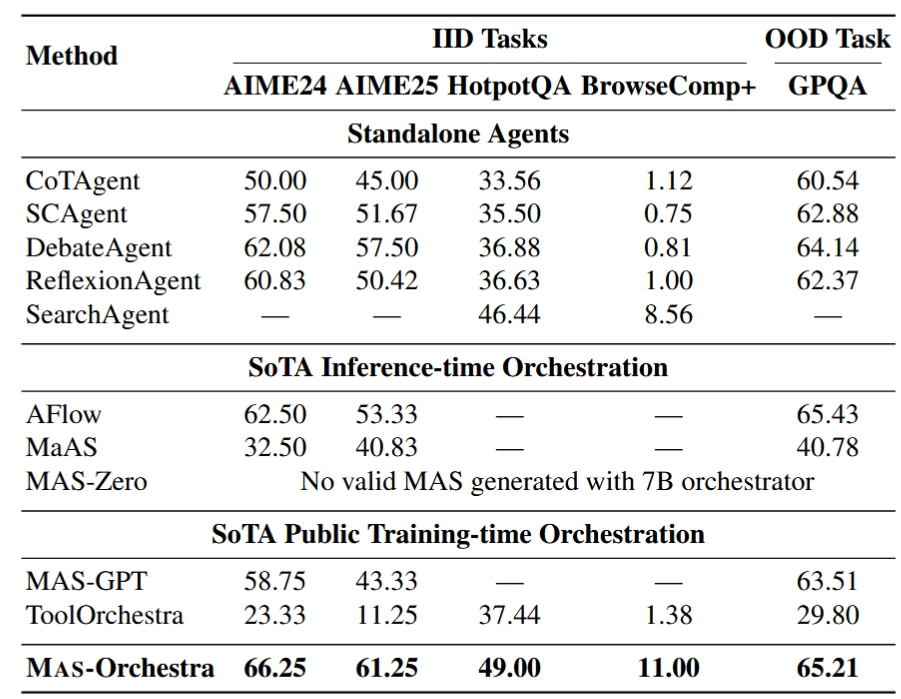
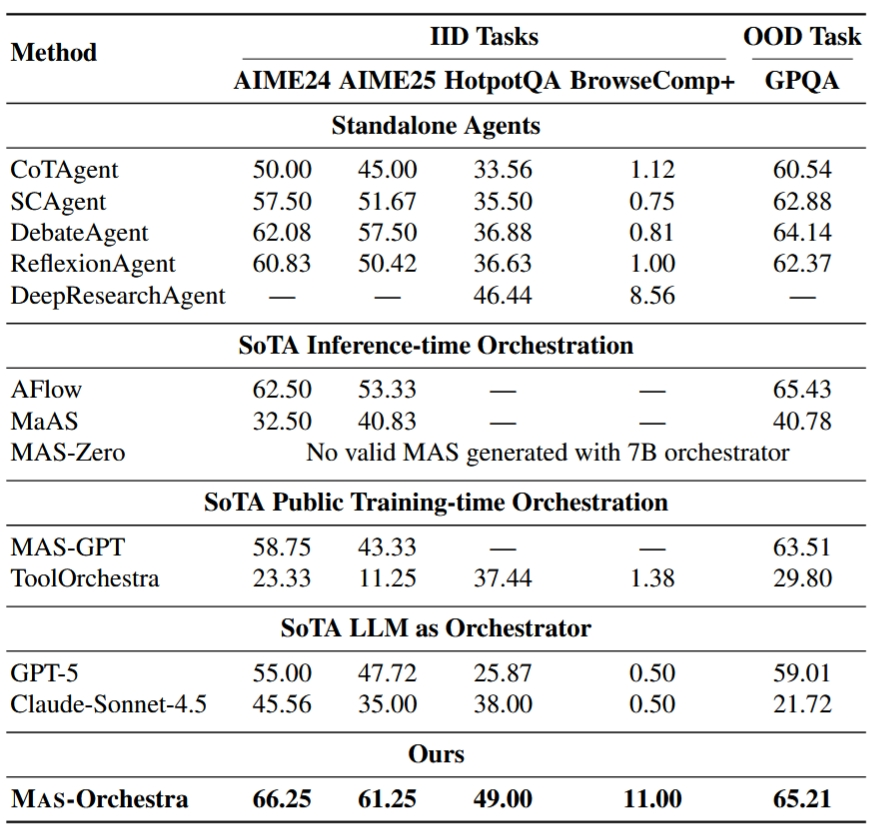
+

Changed region(s): [[0.0, 0.0, 1.0, 1.0]]

diff --git a/mas_r1/index.html b/mas_r1/index.html
@@ -924,13 +924,25 @@ with Qwen-7b as orchestrator and GPT-120b as sub-agent
 <section class="section">
   <div class="container is-max-desktop">
     <h2 class="title is-3 section-heading has-text-centered">Evaluation on Public Benchmarks</h2>
-    <figure class="figure-card">
-      <img src="./figure/mas_r1_results.png" alt="MAS-R1 main results table">
-      <figcaption>
-        Avg@8 accuracy of the considered benchmarks. “—” indicates
-non-applicable.
-      </figcaption>
-    </figure>
+    <div class="columns is-variable is-6 is-multiline">
+      <div class="column is-half-desktop">
+        <figure class="figure-card">
+          <img src="./figure/mas_r1_results.png" alt="MAS-R1 main results table">
+          <figcaption>
+            Avg@8 accuracy of the considered benchmarks. “—” indicates non-applicable.
+          </figcaption>
+        </figure>
+      </div>
+      <div class="column is-half-desktop">
+        <figure class="figure-card">
+          <img src="./figure/pareto_front.png" alt="Pareto front">
+          <figcaption>
+            Cost-performance trade-off computed using average accuracy and total inference cost on AIME24 and GPQA. MAS-Orchestra lie on the Pareto frontier, delivering higher accuracy at lower or comparable cost than strong baselines.
+            All training-time orchestration models use the released orchestrator, which may have been trained in a different environment than ours.
+          </figcaption>
+        </figure>
+      </div>
+    </div>
     <div class="columns is-variable is-6" style="margin-top: 1.25rem;">
       <div class="column">
         <div class="insight-card is-observation">
@@ -999,7 +1011,7 @@ typically using 3 to 4 parallel searches per question.
     <div class="highlight-card">
       <h2 class="title is-3 section-heading has-text-centered">Demo</h2>
       <p style="line-height: 1.8; max-width: 900px; margin: 0 auto; text-align: center;">
-        A short illustration of MAS-Orchestra (AIME24 as an example).
+        A short illustration of MAS-Orchestra.
       </p>
 
       <div style="margin-top: 1.5rem;">
